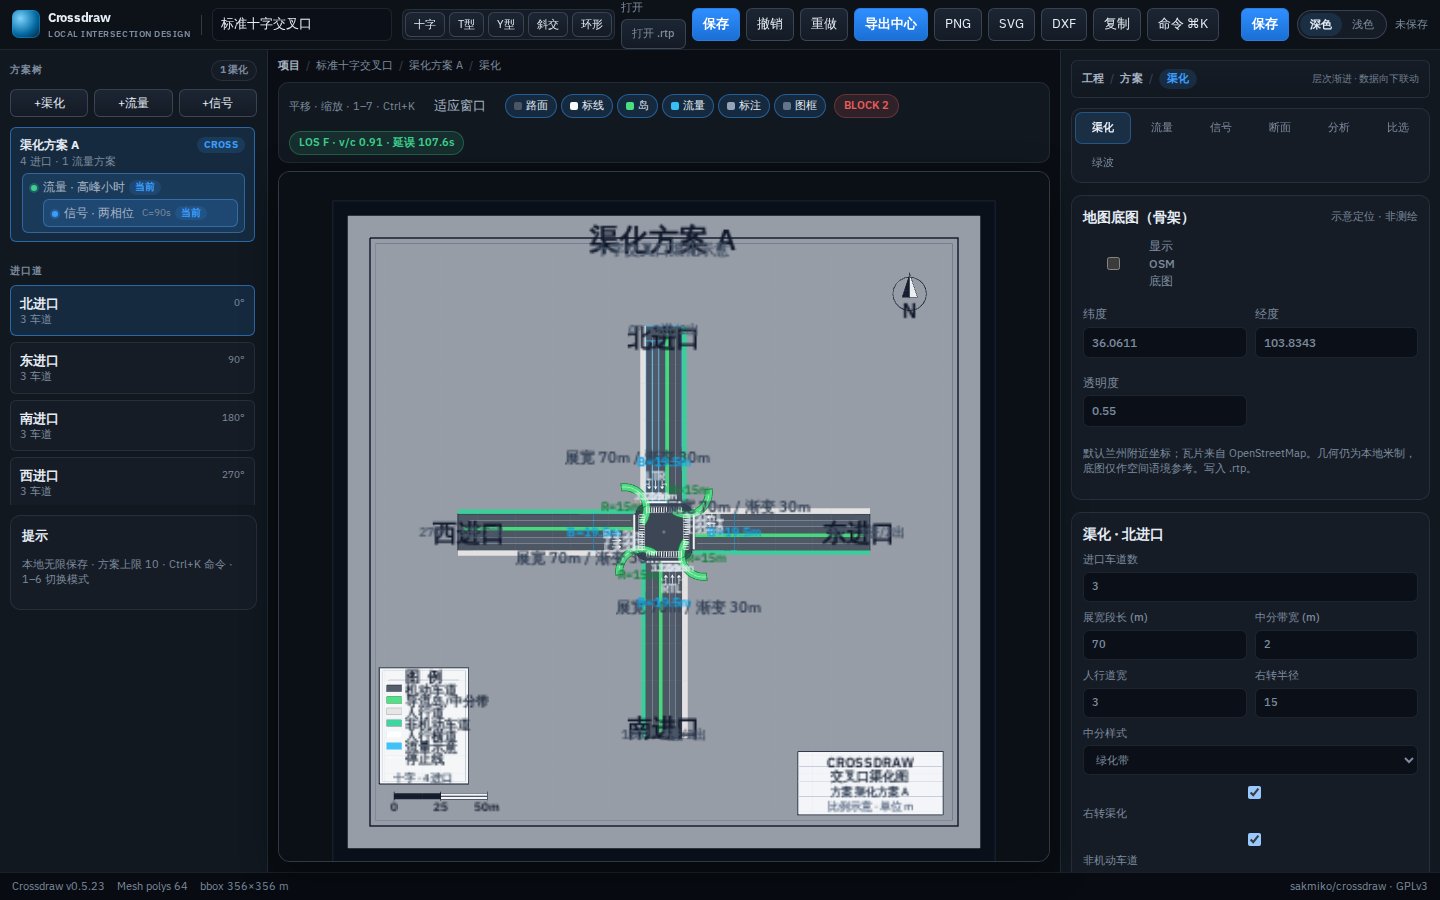
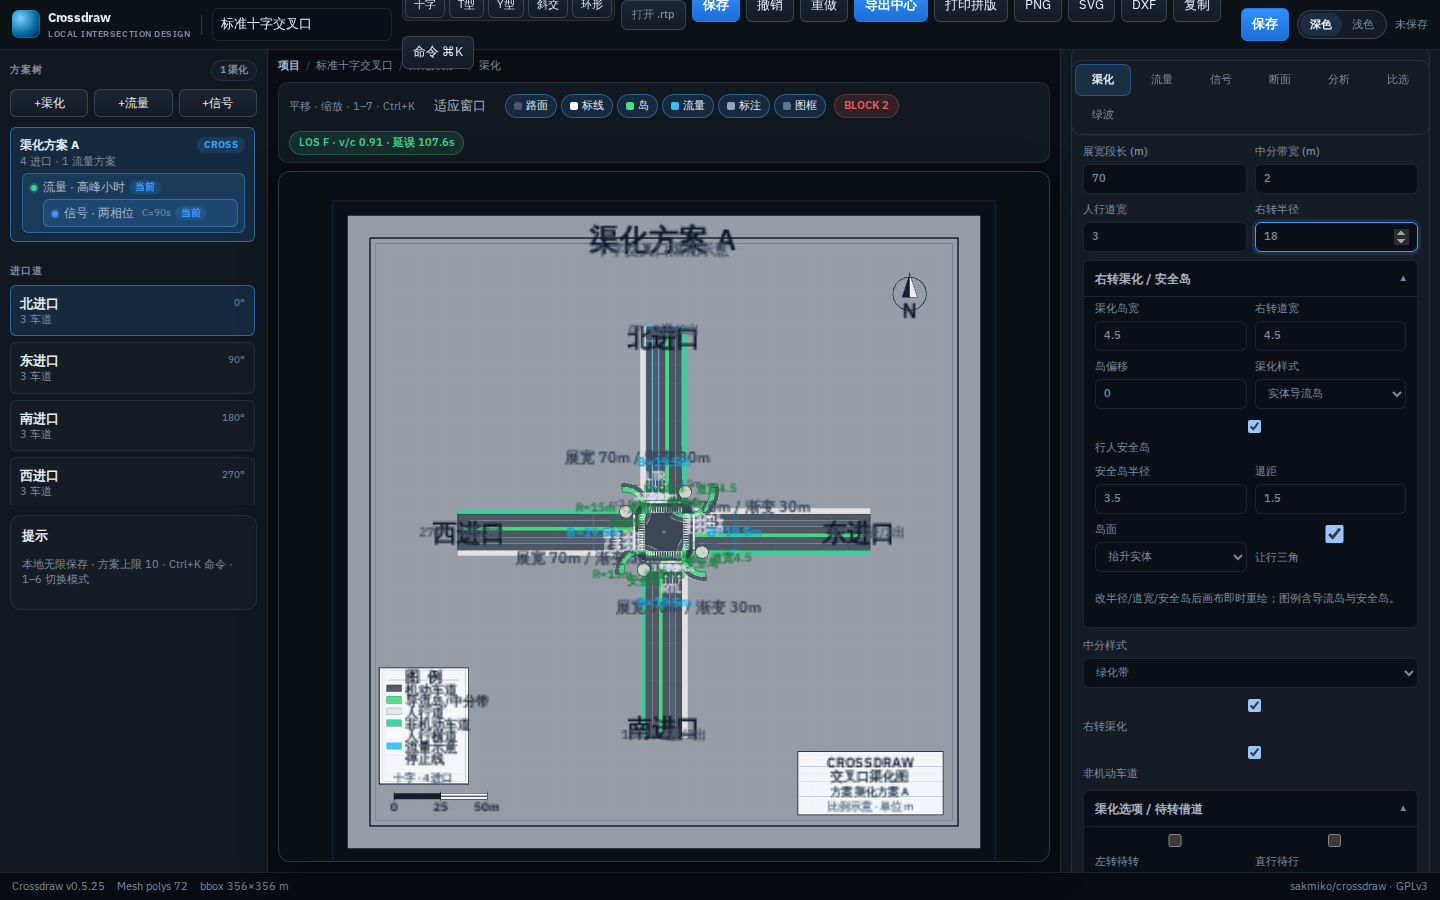
test: open safety-island details in e2e; fix print svg xml strip

diff --git a/tests/e2e/mvp.spec.ts b/tests/e2e/mvp.spec.ts
@@ -1,28 +1,37 @@
 import { expect, test } from '@playwright/test'
 
 test.describe('Crossdraw v0.5.25', () => {
-  test('right-turn and safety island controls', async ({ page }) => {
+  test('right-turn safety island panel and radius', async ({ page }) => {
     await page.setViewportSize({ width: 1440, height: 900 })
     await page.goto('/')
     await page.getByRole('button', { name: '十字', exact: true }).click()
     await expect(page.locator('#canvas-root')).toBeVisible({ timeout: 20000 })
     await page.waitForTimeout(400)
 
-    // ensure channel mode and approach selected
     const tablist = page.getByRole('tablist', { name: '编辑模式' })
     await tablist.getByRole('tab', { name: '渠化' }).click()
     await page.locator('.tree-approach').first().click()
-    await page.waitForTimeout(200)
+    await page.waitForTimeout(250)
 
-    const summary = page.locator('summary').filter({ hasText: '右转渠化 / 安全岛' }).first()
-    await expect(summary).toBeVisible({ timeout: 10000 })
-    await summary.click()
-    await expect(page.getByText('行人安全岛').first()).toBeVisible({ timeout: 5000 })
-    await expect(page.getByText('渠化岛宽').first()).toBeVisible()
+    // open details if closed
+    const details = page.locator('details.details-block').filter({ hasText: '右转渠化 / 安全岛' }).first()
+    await expect(details).toBeVisible({ timeout: 10000 })
+    await details.evaluate((el: HTMLDetailsElement) => {
+      el.open = true
+    })
+    await page.waitForTimeout(150)
 
-    const radius = page.locator('label').filter({ hasText: '右转半径' }).locator('input')
+    // force-visible assertion via attached + count (panel may be below fold)
+    await details.locator('.details-body').evaluate((el) => {
+      el.scrollIntoView({ block: 'center' })
+    })
+    await expect(details.locator('text=渠化岛宽')).toBeVisible({ timeout: 5000 })
+    await expect(details.locator('text=行人安全岛')).toBeVisible()
+
+    const radius = page.getByRole('spinbutton', { name: '右转半径' })
     await radius.fill('18')
-    await page.waitForTimeout(300)
+    await expect(radius).toHaveValue('18')
+    await page.waitForTimeout(200)
     await page.screenshot({ path: 'docs/screenshots/01-channel.png', fullPage: true })
   })
 })